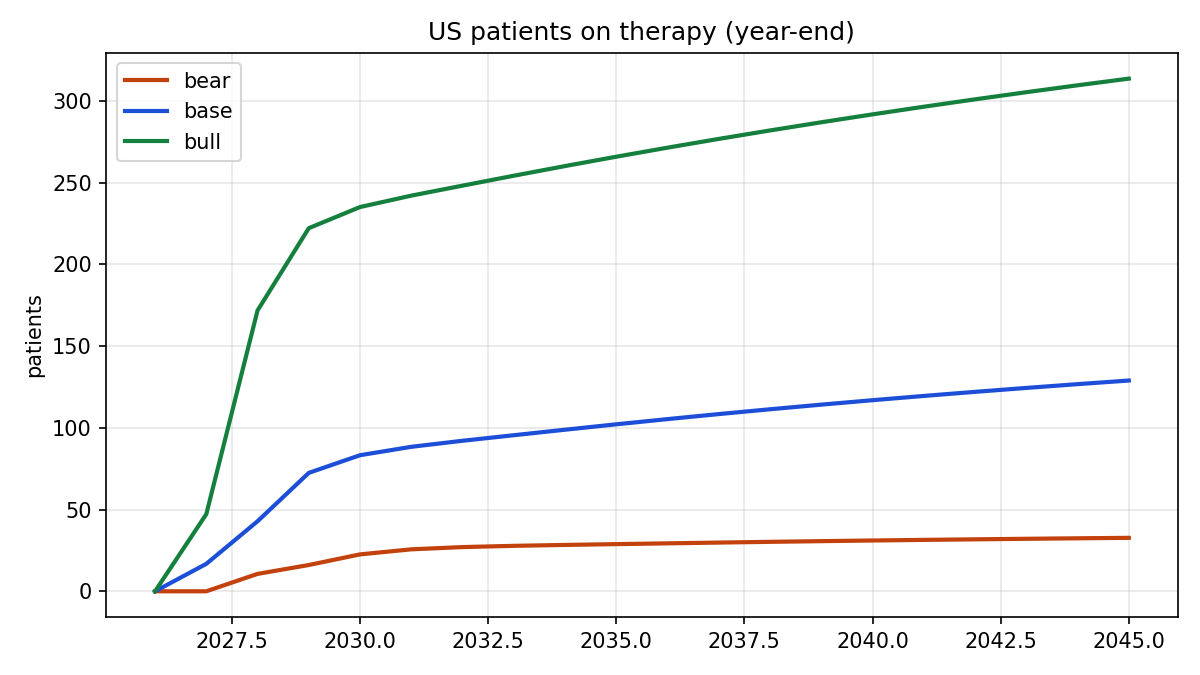
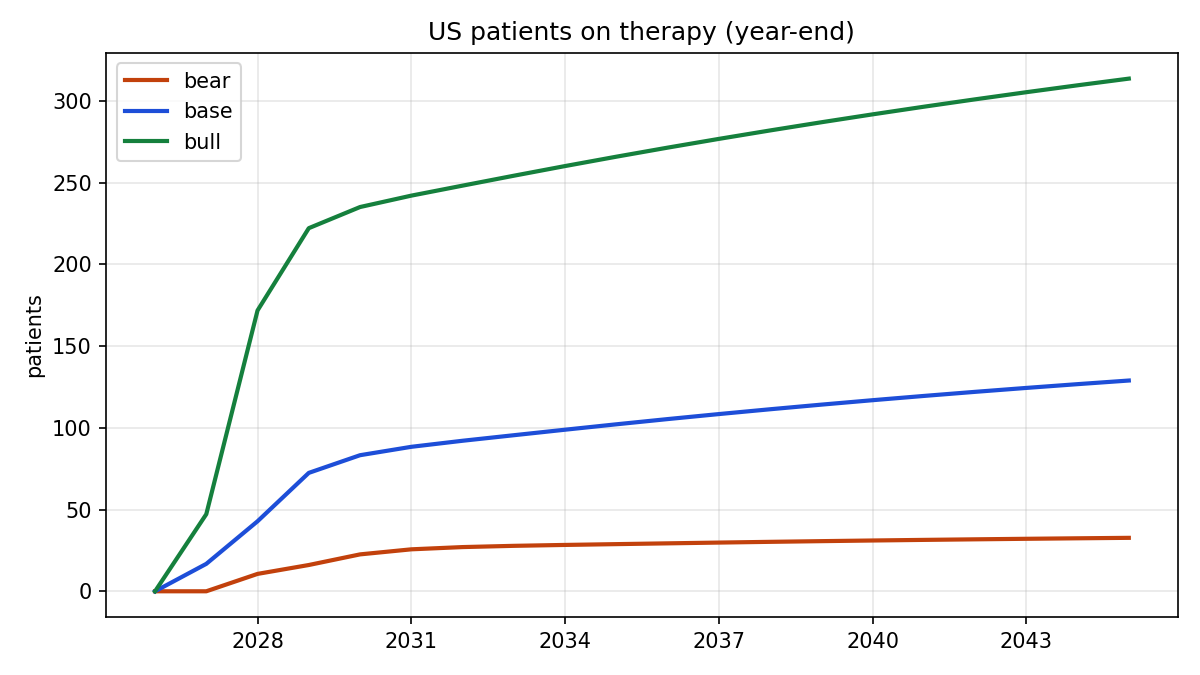
Use integer year ticks on charts

diff --git a/model/report.py b/model/report.py
@@ -5,6 +5,7 @@ import matplotlib
 
 matplotlib.use("Agg")
 import matplotlib.pyplot as plt  # noqa: E402
+from matplotlib.ticker import MaxNLocator  # noqa: E402
 
 from .config import ROOT, SCENARIOS, load_inputs, resolve  # noqa: E402
 from .scenarios import (per_share_acquirer, run_all, sensitivity,  # noqa: E402
@@ -38,6 +39,7 @@ def charts(results: dict, tornado_rows: list[dict]) -> None:
                 label=s, color=COLORS[s], linewidth=2)
     ax.set(title="US patients on therapy (year-end)", xlabel="", ylabel="patients")
     ax.grid(alpha=0.3)
+    ax.xaxis.set_major_locator(MaxNLocator(integer=True))
     ax.legend()
     fig.tight_layout()
     fig.savefig(OUT / "charts" / "patients.png", dpi=150)
@@ -50,6 +52,7 @@ def charts(results: dict, tornado_rows: list[dict]) -> None:
         ax.plot(years, [row["us_sales"] for row in r["revenue"]], color=COLORS[s], linewidth=1, linestyle="--")
     ax.set(title="Net sales, $M (solid = worldwide, dashed = US)", ylabel="$M")
     ax.grid(alpha=0.3)
+    ax.xaxis.set_major_locator(MaxNLocator(integer=True))
     ax.legend()
     fig.tight_layout()
     fig.savefig(OUT / "charts" / "revenue.png", dpi=150)
